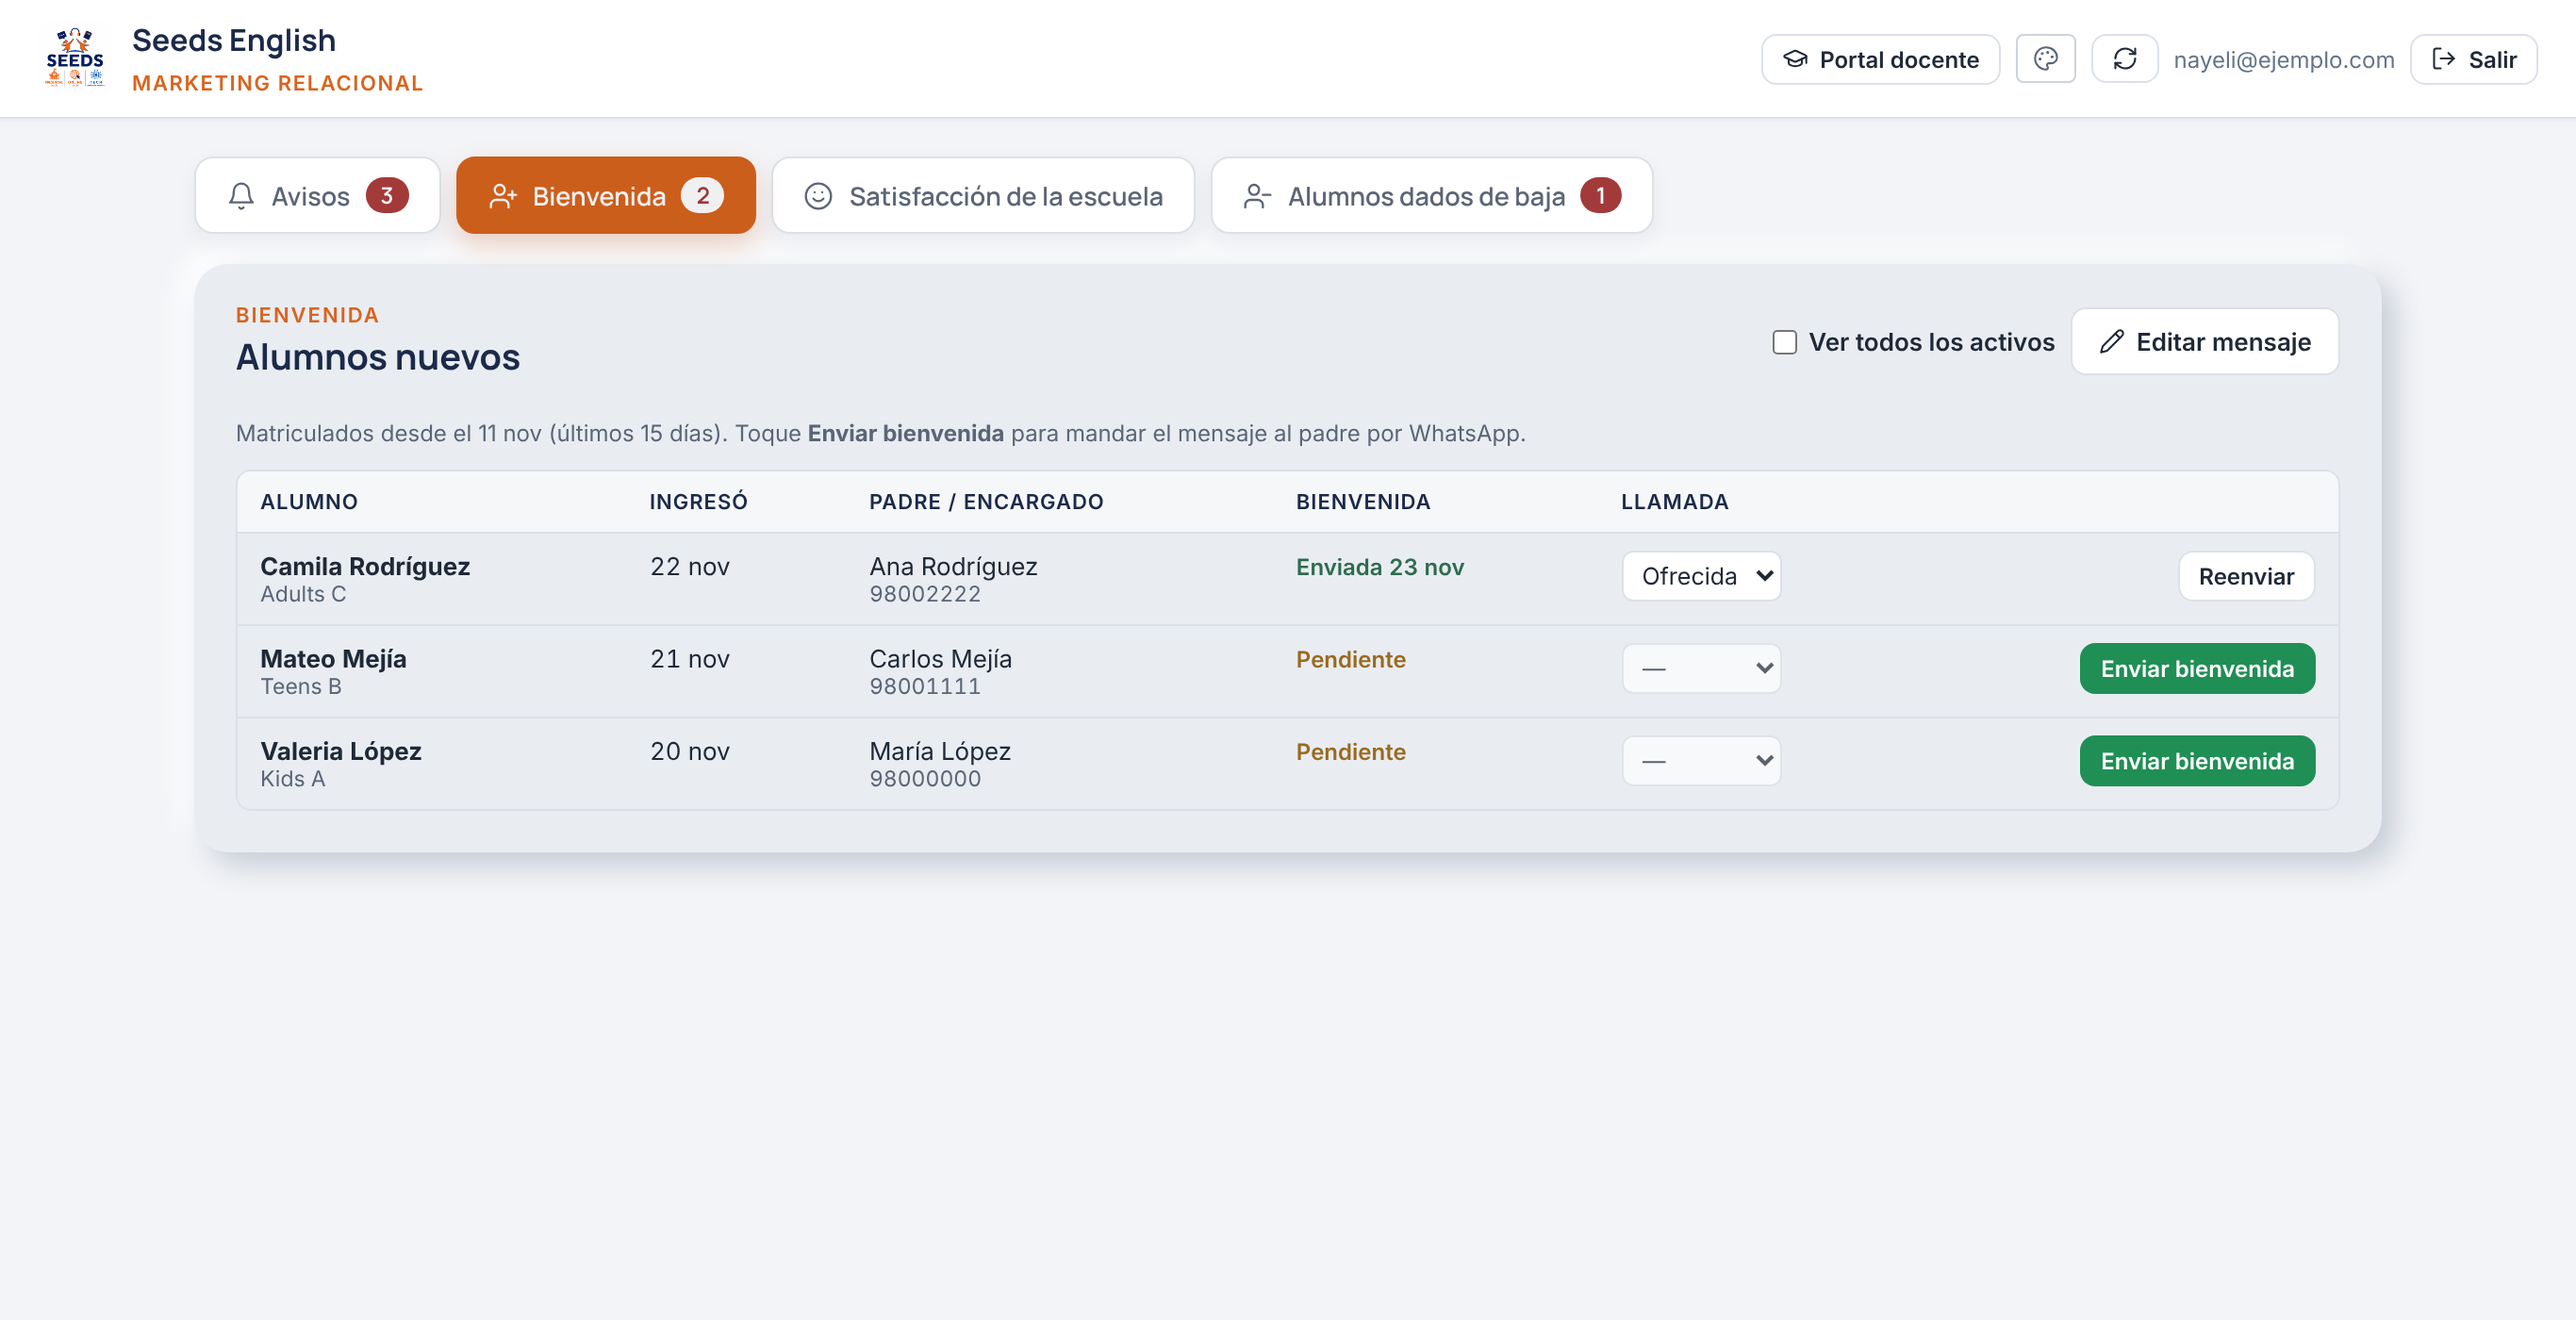
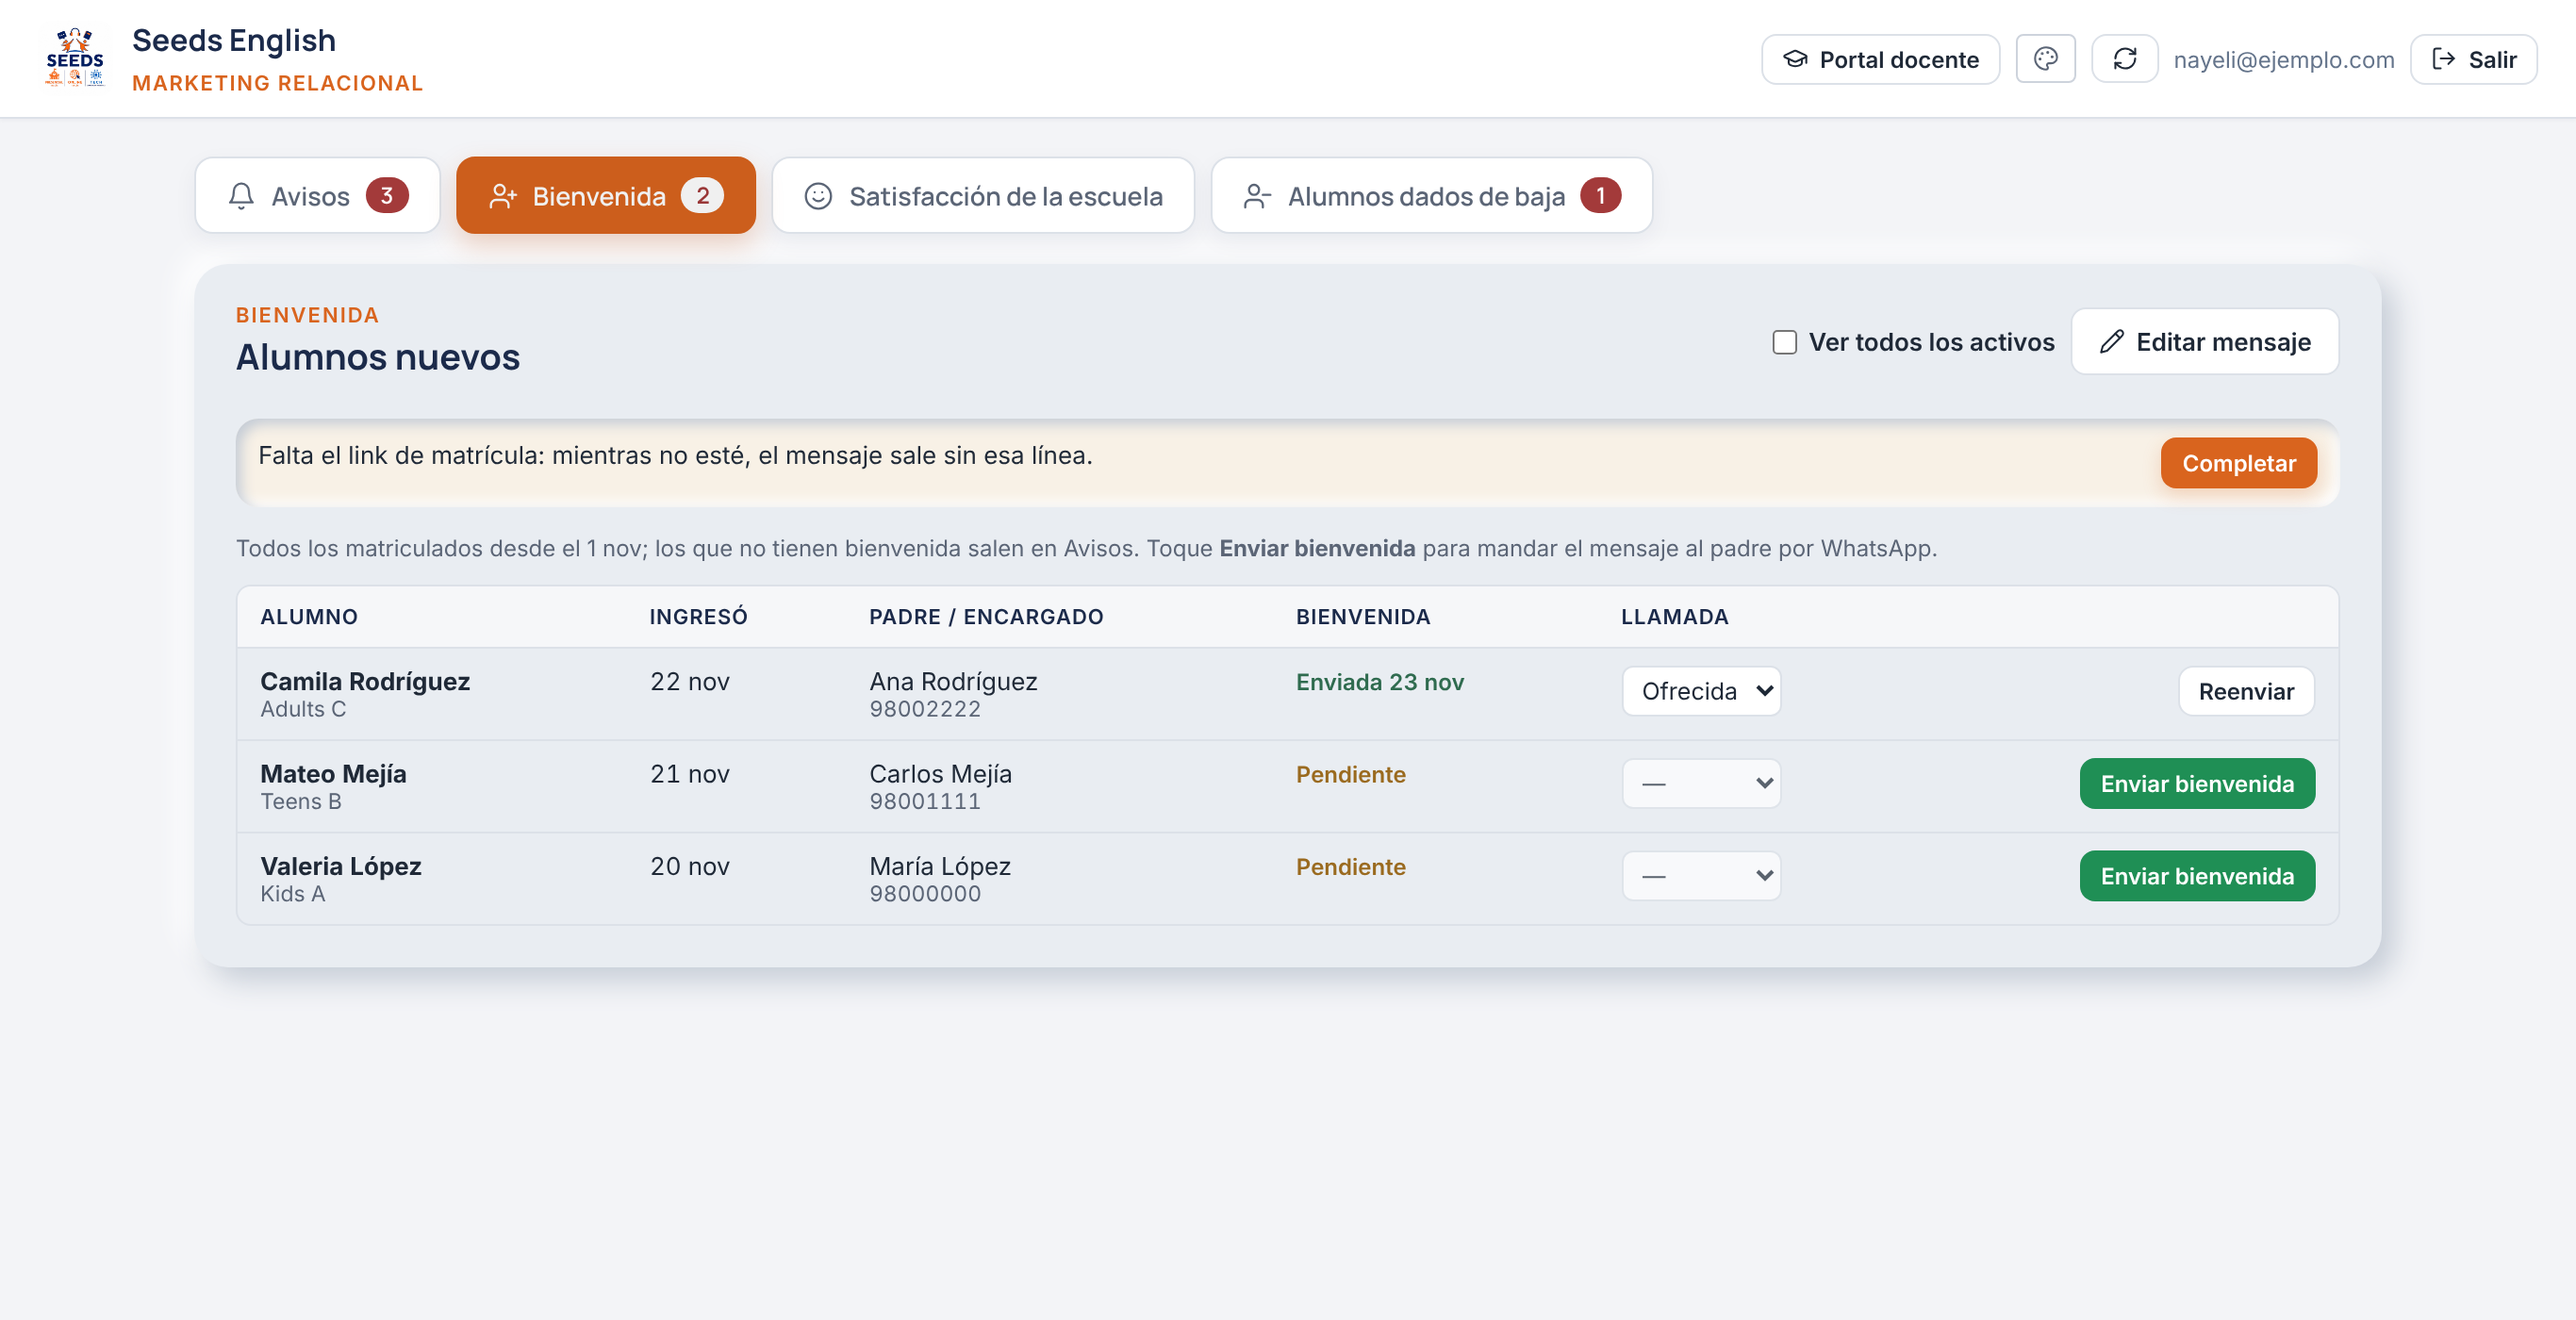
Bienvenida con los datos de la escuela y para todos los alumnos nuevos
Claude-Session: https://claude.ai/code/session_01AxHPX21L8H8cCp28DDg5nG

diff --git a/src/marketingAvisos.jsx b/src/marketingAvisos.jsx
@@ -18,12 +18,12 @@ import { UserPlus, UserMinus, Smile, Pencil } from "lucide-react";
 export const DIAS_ENCUESTA_GENERAL = 182; // cada 6 meses
 
 export const AJUSTES_BASE = {
-  dias_nuevo: 15,
+  desde: "2026-11-01",
   link_matricula: "",
-  pago_plataforma: "",
-  uniforme: "",
-  horario_llamada: "",
-  extra: "",
+  pago_plataforma: "Son L 1,000 en efectivo. Si prefiere transferencia, con gusto le compartimos la cuenta de la escuela.",
+  uniforme: "Cuesta L 350 y se paga en efectivo.",
+  horario_llamada: "Dígame qué día y hora le queda mejor.",
+  extra: "Ya está en el grupo de WhatsApp de la clase, ahí le llegarán los avisos.",
   mensaje:
     "{saludo}, {padre}. 🌱\n\n¡Bienvenidos a Seeds English! Nos alegra mucho que {alumno} se una a {seccion}.\n\n" +
     "Para dejar todo listo:\n" +
@@ -37,12 +37,11 @@ const CAMPOS = [
   ["link_matricula", "Link de matrícula", "https://…"],
   ["pago_plataforma", "Pago de la plataforma", "Ej.: Son L 500, por transferencia a…"],
   ["uniforme", "Uniforme", "Ej.: Cuesta L 350, tallas 4 a 16, se recoge en recepción"],
-  ["horario_llamada", "Horario para llamadas", "Ej.: Lunes a viernes de 2 a 5 PM"],
+  ["horario_llamada", "Sobre la llamada", "Ej.: Dígame qué día y hora le queda mejor"],
   ["extra", "Algo más (opcional)", "Ej.: Horario de clase, materiales, grupo de WhatsApp"],
 ];
 
 const saludo = () => { const h = new Date().getHours(); return h < 12 ? "Buenos días" : h < 18 ? "Buenas tardes" : "Buenas noches"; };
-const restarDias = (d) => new Date(Date.now() - d * 86400000).toLocaleDateString("en-CA");
 const fechaC = (f) => (f ? new Date(String(f).length === 10 ? f + "T12:00:00" : f).toLocaleDateString("es-HN", { day: "numeric", month: "short" }) : "—");
 const fechaL = (f) => new Date(f).toLocaleDateString("es-HN", { day: "numeric", month: "long", year: "numeric" });
 
@@ -76,7 +75,7 @@ export function useMarketingDatos() {
 }
 
 export function nuevosSinBienvenida(data, md) {
-  const desde = restarDias(Number(md.ajustes.dias_nuevo) || 15);
+  const desde = md.ajustes.desde || AJUSTES_BASE.desde;
   const con = new Set(md.bienvenidas.map((b) => b.alumno_id));
   return data.alumnos.filter((a) => a.estado === "activo" && (a.fecha_ingreso || "") >= desde && !con.has(a.id));
 }
@@ -93,7 +92,7 @@ export function Avisos({ data, md, encuestas, irA }) {
   const al = (id) => data.alumnos.find((a) => a.id === id);
   const tarjetas = [
     { id: "bienvenida", icon: UserPlus, n: nuevos.length, tit: nuevos.length ? `${nuevos.length} ${nuevos.length === 1 ? "alumno nuevo" : "alumnos nuevos"} sin bienvenida` : "Todos los alumnos nuevos tienen su bienvenida",
-      txt: nuevos.length ? nuevos.slice(0, 4).map((a) => `${a.nombre} (${nombreSec(a.seccion_id) || "sin sección"})`).join(" · ") + (nuevos.length > 4 ? ` y ${nuevos.length - 4} más` : "") : `Aquí aparecen los matriculados en los últimos ${md.ajustes.dias_nuevo} días.`,
+      txt: nuevos.length ? nuevos.slice(0, 4).map((a) => `${a.nombre} (${nombreSec(a.seccion_id) || "sin sección"})`).join(" · ") + (nuevos.length > 4 ? ` y ${nuevos.length - 4} más` : "") : "Cada alumno que se matricule aparecerá aquí hasta que se le mande la bienvenida.",
       btn: "Dar la bienvenida", alerta: nuevos.length > 0 },
     { id: "bajas", icon: UserMinus, n: bajasPend.length, tit: bajasPend.length ? `${bajasPend.length} ${bajasPend.length === 1 ? "baja" : "bajas"} sin enviar la encuesta` : "No hay encuestas de deserción pendientes",
       txt: bajasPend.length ? bajasPend.slice(0, 4).map((e) => al(e.alumno_id)?.nombre || "Alumno").join(" · ") + (bajasPend.length > 4 ? ` y ${bajasPend.length - 4} más` : "") : "Cuando administración dé de baja a un alumno, aparecerá aquí para mandarle la encuesta al padre.",
@@ -122,10 +121,10 @@ export function Bienvenida({ data, md, showToast }) {
   const [editar, setEditar] = useState(false);
   if (md.falta) return <div className="rm dm"><div className="rm-cuerpo"><div className="rm-frase ambar">Falta activar la bienvenida en la base de datos (archivo supabase/marketing_bienvenida.sql).</div></div></div>;
   const aj = md.ajustes;
-  const desde = restarDias(Number(aj.dias_nuevo) || 15);
+  const desde = aj.desde || AJUSTES_BASE.desde;
   const bien = (id) => md.bienvenidas.find((b) => b.alumno_id === id);
   const lista = data.alumnos
-    .filter((a) => a.estado === "activo" && (todos || (a.fecha_ingreso || "") >= desde || (bien(a.id) && bien(a.id).enviada_en >= desde)))
+    .filter((a) => a.estado === "activo" && (todos || (a.fecha_ingreso || "") >= desde))
     .sort((a, b) => (b.fecha_ingreso || "").localeCompare(a.fecha_ingreso || ""));
   const padre = (id) => data.padres.find((p) => p.id === id);
   const sec = (id) => (data.secciones.find((s) => s.id === id)?.nombre || "").trim();
@@ -148,8 +147,8 @@ export function Bienvenida({ data, md, showToast }) {
           </div>
         </div>
         <div className="rm-cuerpo">
-          {faltanDatos && <div className="rm-frase ambar" style={{ marginBottom: 14 }}><span>Falta el link de matrícula y los datos del mensaje.</span> <button className="dm-btn nar chico" onClick={() => setEditar(true)}>Completar</button></div>}
-          <p className="dm-nota" style={{ marginTop: 0, marginBottom: 12 }}>{todos ? "Todos los alumnos activos." : `Matriculados desde el ${fechaC(desde)} (últimos ${aj.dias_nuevo} días).`} Toque <b>Enviar bienvenida</b> para mandar el mensaje al padre por WhatsApp.</p>
+          {faltanDatos && <div className="rm-frase ambar" style={{ marginBottom: 14 }}><span>Falta el link de matrícula: mientras no esté, el mensaje sale sin esa línea.</span> <button className="dm-btn nar chico" onClick={() => setEditar(true)}>Completar</button></div>}
+          <p className="dm-nota" style={{ marginTop: 0, marginBottom: 12 }}>{todos ? "Todos los alumnos activos." : `Todos los matriculados desde el ${fechaC(desde)}; los que no tienen bienvenida salen en Avisos.`} Toque <b>Enviar bienvenida</b> para mandar el mensaje al padre por WhatsApp.</p>
           <div className="dm-tabla-env">
             <table className="dm-tabla mk-tabla-b">
               <thead><tr><th>Alumno</th><th>Ingresó</th><th>Padre / encargado</th><th>Bienvenida</th><th>Llamada</th><th></th></tr></thead>
@@ -170,7 +169,7 @@ export function Bienvenida({ data, md, showToast }) {
                       : <button className="dm-btn sec chico" onClick={async () => { try { await navigator.clipboard.writeText(texto); await marcar(a); showToast("✓ Mensaje copiado (el padre no tiene teléfono guardado)"); } catch { /* sin portapapeles */ } }}>Copiar mensaje</button>}</td>
                   </tr>
                 ); })}
-                {lista.length === 0 && <tr><td colSpan={6} className="dm-sub">No hay alumnos nuevos en los últimos {aj.dias_nuevo} días.</td></tr>}
+                {lista.length === 0 && <tr><td colSpan={6} className="dm-sub">Todavía no hay alumnos nuevos desde el {fechaC(desde)}.</td></tr>}
               </tbody>
             </table>
           </div>
@@ -186,7 +185,7 @@ function EditarMensaje({ md, showToast, onCerrar, ejemplo }) {
   const [ocupado, setOcupado] = useState(false);
   const guardar = async () => {
     setOcupado(true);
-    const { error } = await supabase.from("marketing_ajustes").upsert({ id: 1, datos: { ...f, dias_nuevo: Number(f.dias_nuevo) || 15 }, updated_at: new Date().toISOString() });
+    const { error } = await supabase.from("marketing_ajustes").upsert({ id: 1, datos: { ...f, desde: f.desde || AJUSTES_BASE.desde }, updated_at: new Date().toISOString() });
     setOcupado(false);
     if (error) showToast("No se pudo guardar: " + error.message, "error"); else { showToast("✓ Mensaje de bienvenida guardado"); md.cargar(); onCerrar(); }
   };
@@ -197,8 +196,8 @@ function EditarMensaje({ md, showToast, onCerrar, ejemplo }) {
         {CAMPOS.map(([k, t, ph]) => (
           <div key={k}><label className="mk-lab">{t}</label><input className="ep-input" style={{ marginTop: 0 }} value={f[k] || ""} placeholder={ph} onChange={(e) => setF({ ...f, [k]: e.target.value })} /></div>
         ))}
-        <label className="mk-lab">Contar como nuevo durante <span>(días después de matricularse)</span></label>
-        <input className="ep-input" style={{ marginTop: 0, maxWidth: 120 }} type="number" min={1} max={90} value={f.dias_nuevo} onChange={(e) => setF({ ...f, dias_nuevo: e.target.value })} />
+        <label className="mk-lab">Dar bienvenida a los matriculados desde <span>(los de antes no salen en Avisos)</span></label>
+        <input className="ep-input" style={{ marginTop: 0, maxWidth: 180 }} type="date" value={f.desde || ""} onChange={(e) => setF({ ...f, desde: e.target.value })} />
         <label className="mk-lab">Texto <span>({"{padre}"}, {"{alumno}"}, {"{seccion}"} y los datos de arriba se llenan solos)</span></label>
         <textarea className="ep-input" style={{ marginTop: 0 }} rows={9} value={f.mensaje} onChange={(e) => setF({ ...f, mensaje: e.target.value })} />
         <button className="rm-link" style={{ marginTop: 6 }} onClick={() => setF({ ...f, mensaje: AJUSTES_BASE.mensaje })}>Volver al texto original</button>
